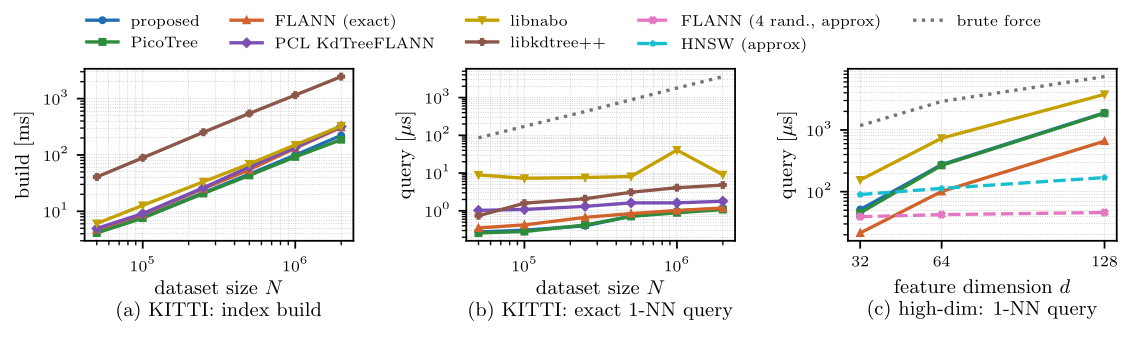
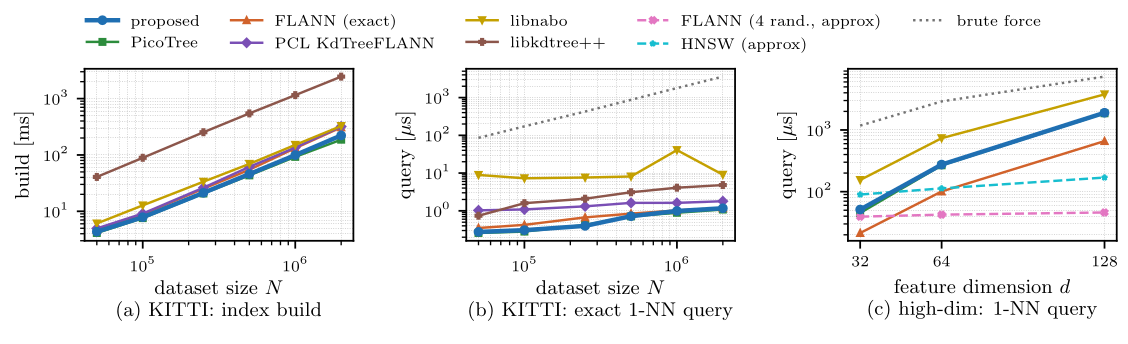
Fig 3 (euclidean_all): draw "proposed" on top so it is not hidden
The library under test (blue) tracks PicoTree (green) almost exactly, so when
plotted first it was overdrawn and invisible -- notably in panel (c), where it
appeared to be missing from the plot despite being in the legend. Plot it last
(high zorder) and slightly thicker in all three panels.

diff --git a/multiLibTests/plot_multilib.py b/multiLibTests/plot_multilib.py
@@ -219,22 +219,35 @@ def fig_euclidean_all(rows):
                "flann_4rand", "hnsw_approx", "brute_force"]
     fig, (a0, a1, a2) = plt.subplots(1, 3, figsize=(7.05, 2.15))
     fig.set_layout_engine("none")
+
+    # Emphasis for the library under test: draw it *last* (high zorder) and a
+    # touch thicker, so it is not hidden under the closely-tracking baselines
+    # (e.g. PicoTree, whose curve nearly coincides with it).
+    def _emph(lib):
+        on_top = lib == "proposed"
+        return {
+            "ms": 3.4 if on_top else 2.6,
+            "lw": 2.0 if on_top else 1.1,
+            "zorder": 6 if on_top else 3,
+        }
+
     for lib in kitti_libs:
         x, y = series(rows, "kitti", lib, "N", "build_ms")
         if x:
             lab, col, mk, ls = STYLE[lib]
-            a0.loglog(x, y, ls=ls, marker=mk, ms=2.6, color=col, label=lab)
+            a0.loglog(x, y, ls=ls, marker=mk, color=col, label=lab, **_emph(lib))
     for lib in kitti_libs + ["brute_force"]:
         x, y = series(rows, "kitti", lib, "N", "query_us")
         if x:
             lab, col, mk, ls = STYLE[lib]
-            a1.loglog(x, y, ls=ls, marker=mk, ms=2.6, color=col)
+            a1.loglog(x, y, ls=ls, marker=mk, color=col, **_emph(lib))
     for lib in hd_libs:
         x, y = series(rows, "highdim", lib, "dim", "query_us")
         if x:
             lab, col, mk, ls = STYLE[lib]
-            a2.semilogy(x, y, ls=ls, marker=mk, ms=2.6, color=col,
-                        label=lab if lib not in kitti_libs else None)
+            a2.semilogy(x, y, ls=ls, marker=mk, color=col,
+                        label=lab if lib not in kitti_libs else None,
+                        **_emph(lib))
     a0.set_xlabel("dataset size $N$\n(a) KITTI: index build")
     a0.set_ylabel("build [ms]")
     a1.set_xlabel("dataset size $N$\n(b) KITTI: exact $1$-NN query")